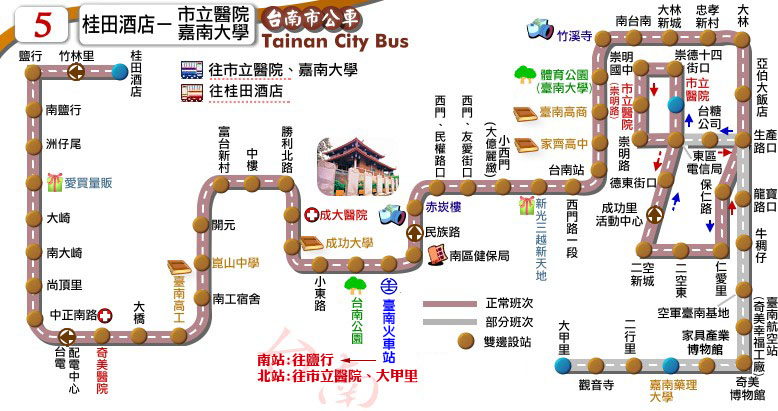
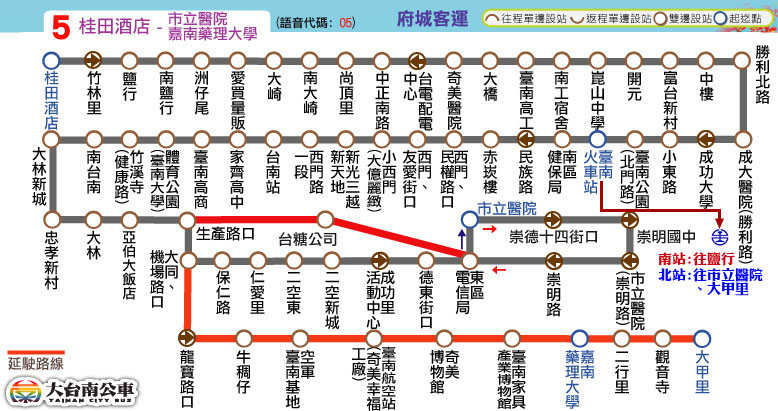
新增站位：5路(增「大同、機場路口」，「龍寶路口」改為往南單向)、綠22(增「樟湖」（往玉井）)

diff --git a/urban/5.html b/urban/5.html
@@ -9,7 +9,7 @@
 	route_type = 'city_bus';
 	route_interval = ['桂田酒店','市立醫院','大甲里'];
 	route_start_stop = '桂田酒店';
-	route_end_stop = '市立醫院/機場/大甲里';
+	route_end_stop = '市立醫院/嘉南藥理大學/大甲里';
 </script>
 <link href="../css/radio_style.css" rel="stylesheet" />
 <script src="../tools/web_model.js"></script> 
@@ -21,9 +21,9 @@
 <script type="text/javascript">
 	block_header();
 	block_route_map(null);
-	block_route_info(route_interval,'府城客運','尖10~20離30','一段票','http://www.2384.com.tw/ebus/jsp/ajaxBus.jsp?pathId=10164&locale=zh_TW',[['平日','normal'],['假日','holiday']]);
+	block_route_info(route_interval,'府城客運','尖15~20離30','一段票','http://www.2384.com.tw/ebus/jsp/ajaxBus.jsp?pathId=10164&locale=zh_TW',[['平日','normal'],['假日','holiday']]);
 	block_fare(1, null);
-	block_multiple_time_schedule( [['平日班表','normal'],['假日班表','holiday']], L_message + '；「<font color="blue">生</font>」表示經生產路班次');
+	block_multiple_time_schedule( [['平日班表','normal'],['假日班表','holiday']], L_message + '；「<span style="color: blue;">生</span>」表示經生產路班次');
 	block_transfer(transfer_yanhang + transfer_chimei_hospital + transfer_tainan_railway_station + transfer_Chia_Nan_University);
 	block_copyright();
 </script>

diff --git a/route/fare_and_time/green_22.js b/route/fare_and_time/green_22.js
@@ -3,7 +3,7 @@ green_22_interval_stop = [
 ["玉井站","玉田里"], // 玉井
 ["後旦","竹圍","鹿陶廟","鹿陶","埔頭子","大林路口","鹿陶洋","東西煙"], // 鹿陶洋
 ["油車","楠西公所","楠西街","楠西","台電楠西服務所"], // 楠西
-["茄拔路口","內埔","關帝廳","香蕉市","中山堂","灣丘","土地公廟","梅嶺資訊站","香蕉山","北勢仔","下井仔湖","上井仔湖","二層坪"], // 香蕉山
+["茄拔路口","內埔","關帝廳","香蕉市","中山堂","灣丘","土地公廟","梅嶺資訊站","香蕉山","北勢仔","下井仔湖","上井仔湖","樟湖","二層坪"], // 香蕉山
 ["梅嶺"] // 梅嶺
 ];
 green_22_fare = [
